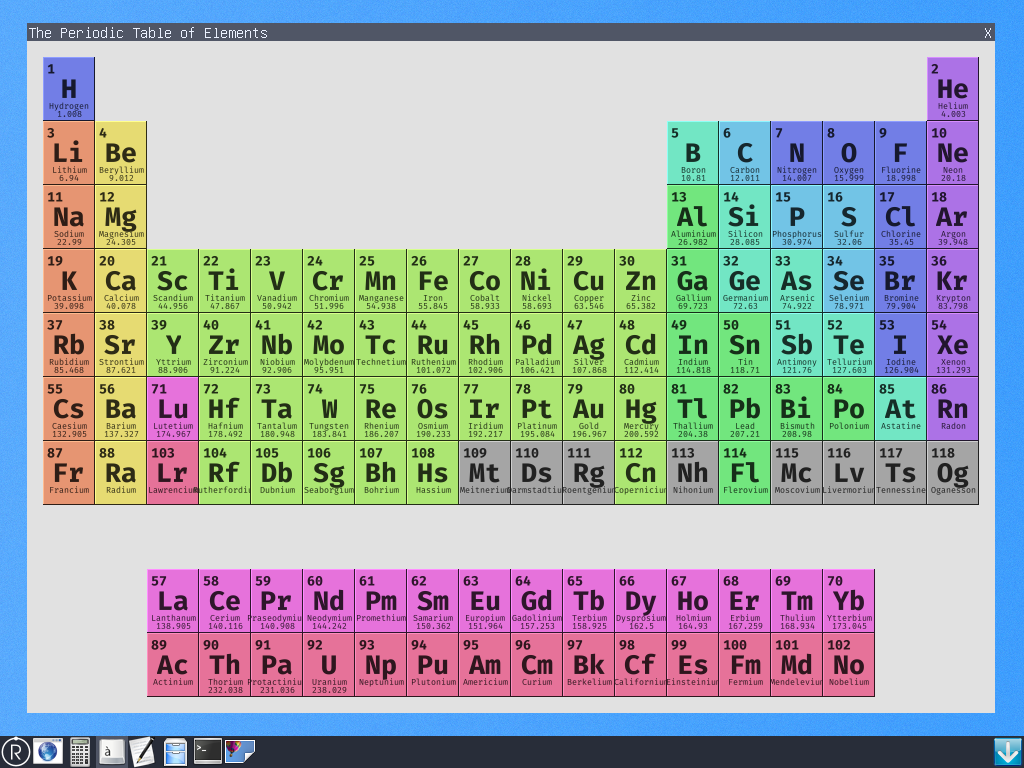
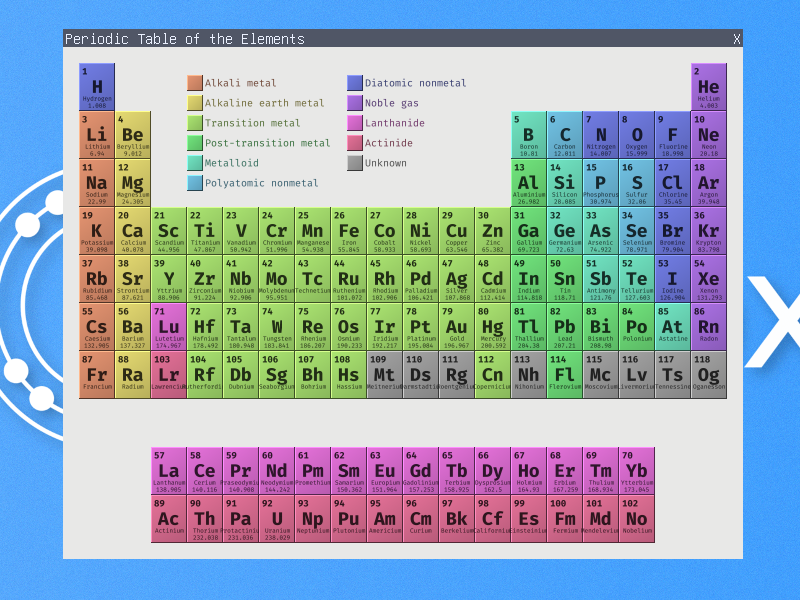
More work on the legend, update README

diff --git a/src/legend_widget.rs b/src/legend_widget.rs
@@ -11,8 +11,8 @@ use orbtk::widgets::Widget;
 use orbfont::Font;
 
 use gfxutils::{mult_color, draw_beveled_rect, draw_text};
-use element_colors::{get_category_color, ColorizationMode};
-use element_data::Category;
+use element_colors::{ColorizationMode, get_category_color, get_state_color};
+use element_data::{Category, State};
 
 pub struct LegendWidget {
     rect: Cell<Rect>,
@@ -50,6 +50,7 @@ impl Widget for LegendWidget {
 
         // TODO: Is there a better way to do this?
         match self.colorization.get() {
+            ColorizationMode::None => { },
             ColorizationMode::ByCategories => {
                 self.draw_legend_item(renderer, 0, "Alkali metal", &get_category_color(Category::AlkaliMetal));
                 self.draw_legend_item(renderer, 1, "Alkaline earth metal", &get_category_color(Category::AlkalineEarthMetal));
@@ -63,9 +64,14 @@ impl Widget for LegendWidget {
                 self.draw_legend_item(renderer, 9, "Actinide", &get_category_color(Category::Actinide));
                 self.draw_legend_item(renderer, 10, "Unknown", &get_category_color(Category::Unknown));
             },
-            _ =>  {
-                draw_beveled_rect(renderer, rect.x, rect.y, rect.width, rect.height, &Color::rgb(255, 0, 0));
-            }
+            ColorizationMode::ByStates => {
+                self.draw_legend_item(renderer, 2, "Solid", &get_state_color(State::Solid));
+                self.draw_legend_item(renderer, 3, "Liquid", &get_state_color(State::Liquid));
+                self.draw_legend_item(renderer, 4, "Gas", &get_state_color(State::Gas));
+                self.draw_legend_item(renderer, 8, "Plasma", &get_state_color(State::Plasma));
+                self.draw_legend_item(renderer, 9, "Unknown", &get_state_color(State::Unknown));
+            },
+            _ =>  { },
         }
     }
 

diff --git a/src/main.rs b/src/main.rs
@@ -27,7 +27,7 @@ const WINDOW_WIDTH: u32 = ELEMENT_WIDTH * 18 + PADDING * 2;
 const WINDOW_HEIGHT: u32 = ELEMENT_HEIGHT * 10 + PADDING * 2;
 
 fn main() {
-    let window = Window::new(Rect::new(10, 10, WINDOW_WIDTH, WINDOW_HEIGHT), "Periodic table");
+    let window = Window::new(Rect::new(10, 10, WINDOW_WIDTH, WINDOW_HEIGHT), "Periodic Table of the Elements");
 
     // Element widgets
     for e in ELEMENTS.iter() {

diff --git a/README.md b/README.md
@@ -4,9 +4,6 @@ A periodic table browser for [Redox OS](https://github.com/redox-os)
 <img alt="Redox" width="400" src="screenshot.png">
 
 Todo:
-* Proper project structure
-* Split the main source into multiple source files
-* Making it interactive by adding a detail window for the elements with the following data:
+* Implement an element detail window with the following data:
   * Electron configuration diagrams
   * Physical and atomic properties, etc.
-  
